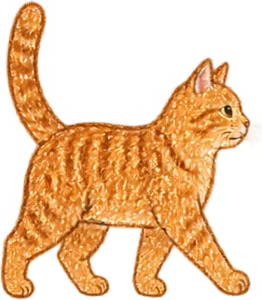
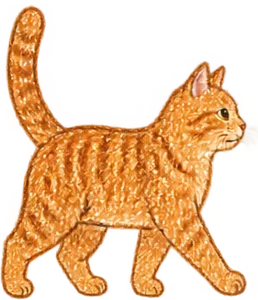
냥사: 탑돌이 고양이가 다리를 번갈아 내딛으며 걷도록 두 번째 걸음 그림 추가

diff --git a/landing/nyangsa/app.js b/landing/nyangsa/app.js
@@ -126,7 +126,7 @@
   function makeWalker(cat, isMe) {
     const el = document.createElement('div');
     el.className = 'walker' + (isMe ? ' me' : '');
-    el.innerHTML = '<span class="name"></span><img alt="">';
+    el.innerHTML = '<span class="name"></span><img class="f1" alt=""><img class="f2" alt="">';
     $('walkers').appendChild(el);
     // 나는 맨 앞에서 출발, 다른 집사는 저마다 다른 자리에서
     const theta = isMe ? Math.PI / 2 : hashAngle(cat.id);
@@ -140,9 +140,11 @@
       let w = walkers.get(c.id);
       if (!w) { w = makeWalker(c, c.id === me.id); walkers.set(c.id, w); }
       w.cat = c;
-      const img = w.el.querySelector('img');
-      const src = '/nyangsa/img/walk-' + c.coat + '.webp';
-      if (img.getAttribute('src') !== src) img.setAttribute('src', src);
+      // 다리를 반대로 내딛은 두 그림을 번갈아 보여줘서 걷게 한다
+      const f1 = w.el.querySelector('.f1'), f2 = w.el.querySelector('.f2');
+      const src1 = '/nyangsa/img/walk-' + c.coat + '.webp?v=2';
+      const src2 = '/nyangsa/img/walk-' + c.coat + '-2.webp';
+      if (f1.getAttribute('src') !== src1) { f1.setAttribute('src', src1); f2.setAttribute('src', src2); }
       w.el.querySelector('.name').textContent = c.name;
     }
   }
@@ -160,10 +162,11 @@
         const y = PATH.cy + PATH.ry * sin;
         // 통통 튀지 않게: 발걸음에 맞춰 몸만 아주 살짝 흔들린다
         const step = Math.sin(now / 210 + w.start * 7);
+        w.el.classList.toggle('step2', Math.floor(now / 280 + w.start * 3) % 2 === 1);
         w.el.style.left = ((x - WALK_W * scale / 2) / W * 100) + '%';
         w.el.style.width = (WALK_W * scale / W * 100) + '%';
         w.el.style.bottom = ((H - y) / H * 100) + '%';
-        w.el.style.transform = 'translateY(' + (step * 0.6).toFixed(2) + 'px) rotate(' + (step * 1.2).toFixed(2) + 'deg)';
+        w.el.style.transform = 'translateY(' + (step * 0.6).toFixed(2) + 'px) rotate(' + (step * 0.6).toFixed(2) + 'deg)';
         // 탑 뒤쪽을 지날 땐 석탑 그림(z 1000) 아래로
         w.el.style.zIndex = String((sin < 0 ? 900 : 1100) + Math.round(y / 20));
         w.el.classList.toggle('flip', sin > 0);       // 앞쪽에선 왼쪽으로 걷는다

diff --git a/landing/nyangsa/index.html b/landing/nyangsa/index.html
@@ -11,7 +11,7 @@
 <meta name="theme-color" content="#f3e2bd">
 <link rel="preconnect" href="https://fonts.googleapis.com">
 <link href="https://fonts.googleapis.com/css2?family=Gowun+Dodum&display=swap" rel="stylesheet">
-<link rel="stylesheet" href="/nyangsa/style.css?v=7">
+<link rel="stylesheet" href="/nyangsa/style.css?v=8">
 </head>
 <body>
 <div id="viewport">
@@ -93,6 +93,6 @@
   <form method="dialog" class="row"><button>닫기</button></form>
 </dialog>
 
-<script src="/nyangsa/app.js?v=7"></script>
+<script src="/nyangsa/app.js?v=8"></script>
 </body>
 </html>

diff --git a/landing/nyangsa/style.css b/landing/nyangsa/style.css
@@ -49,6 +49,8 @@ body.in-yard #scene-yard { transform: none; }
 #pagoda { position: absolute; left: 30.57%; top: 40.74%; width: 37.01%; z-index: 1000; pointer-events: none; user-select: none; }
 .walker { position: absolute; transform-origin: 50% 100%; pointer-events: none; }
 .walker img { width: 100%; display: block; }
+.walker img.f2, .walker.step2 img.f1 { display: none; }
+.walker.step2 img.f2 { display: block; }
 .walker.flip img { transform: scaleX(-1); }
 .walker .name {
   position: absolute; left: 50%; bottom: 100%; transform: translateX(-50%);
